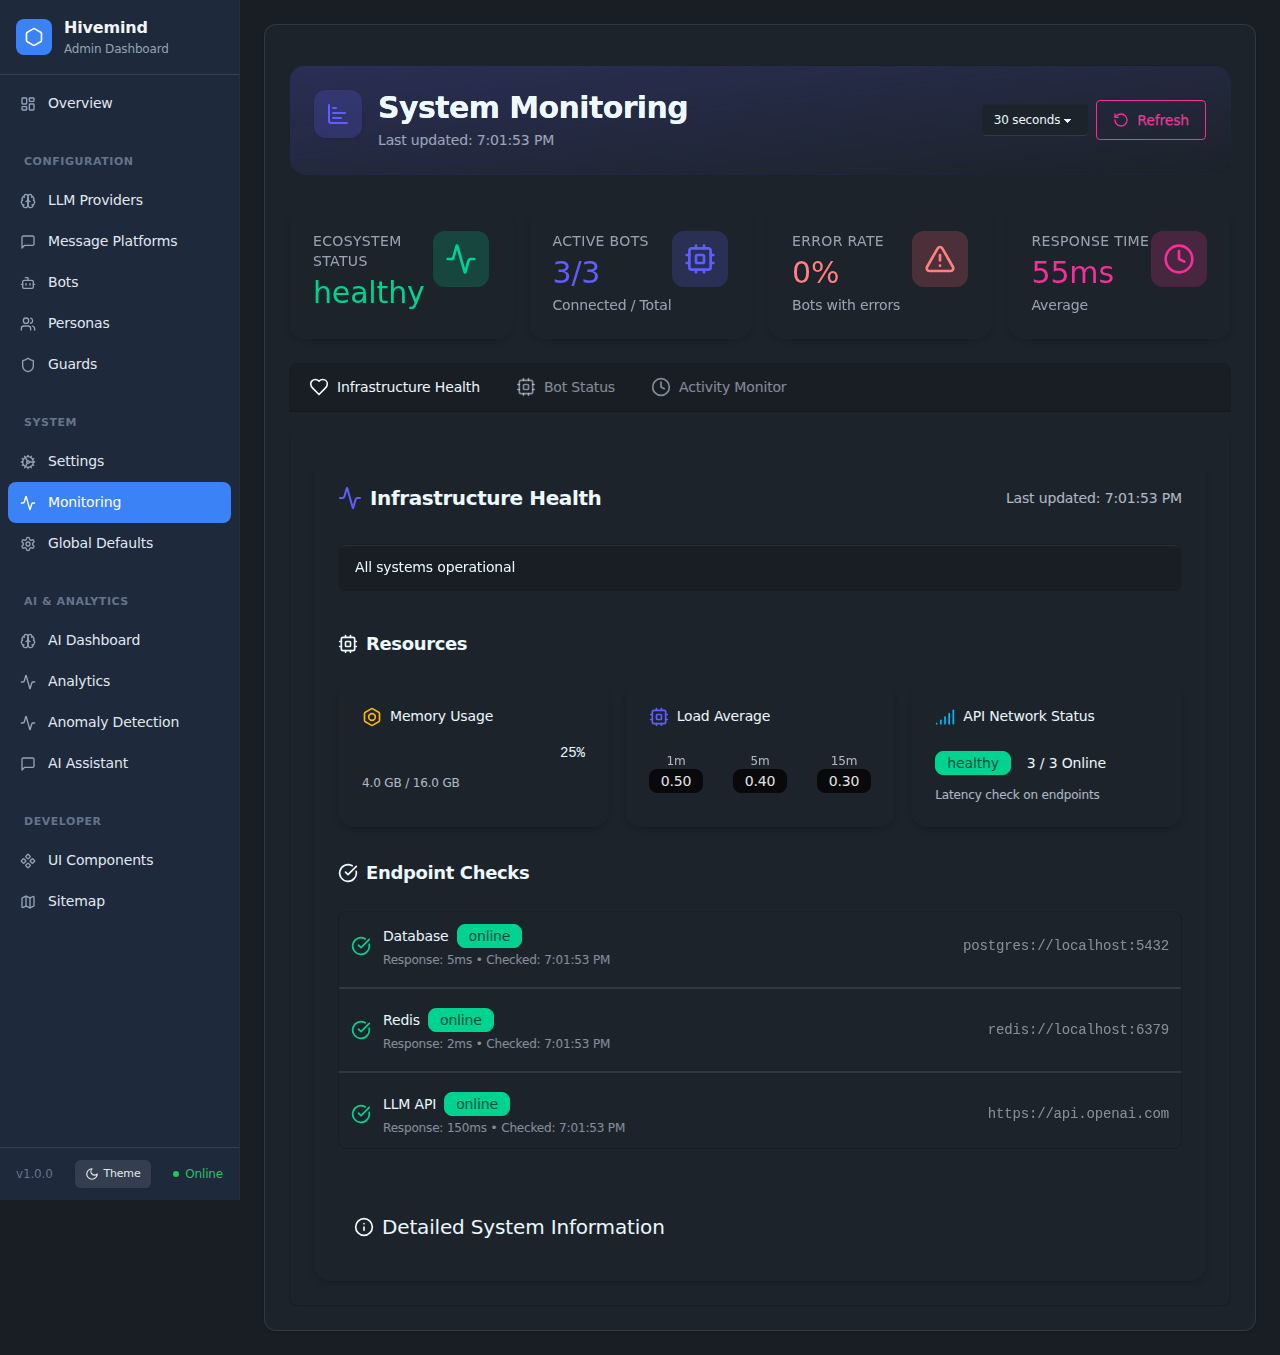
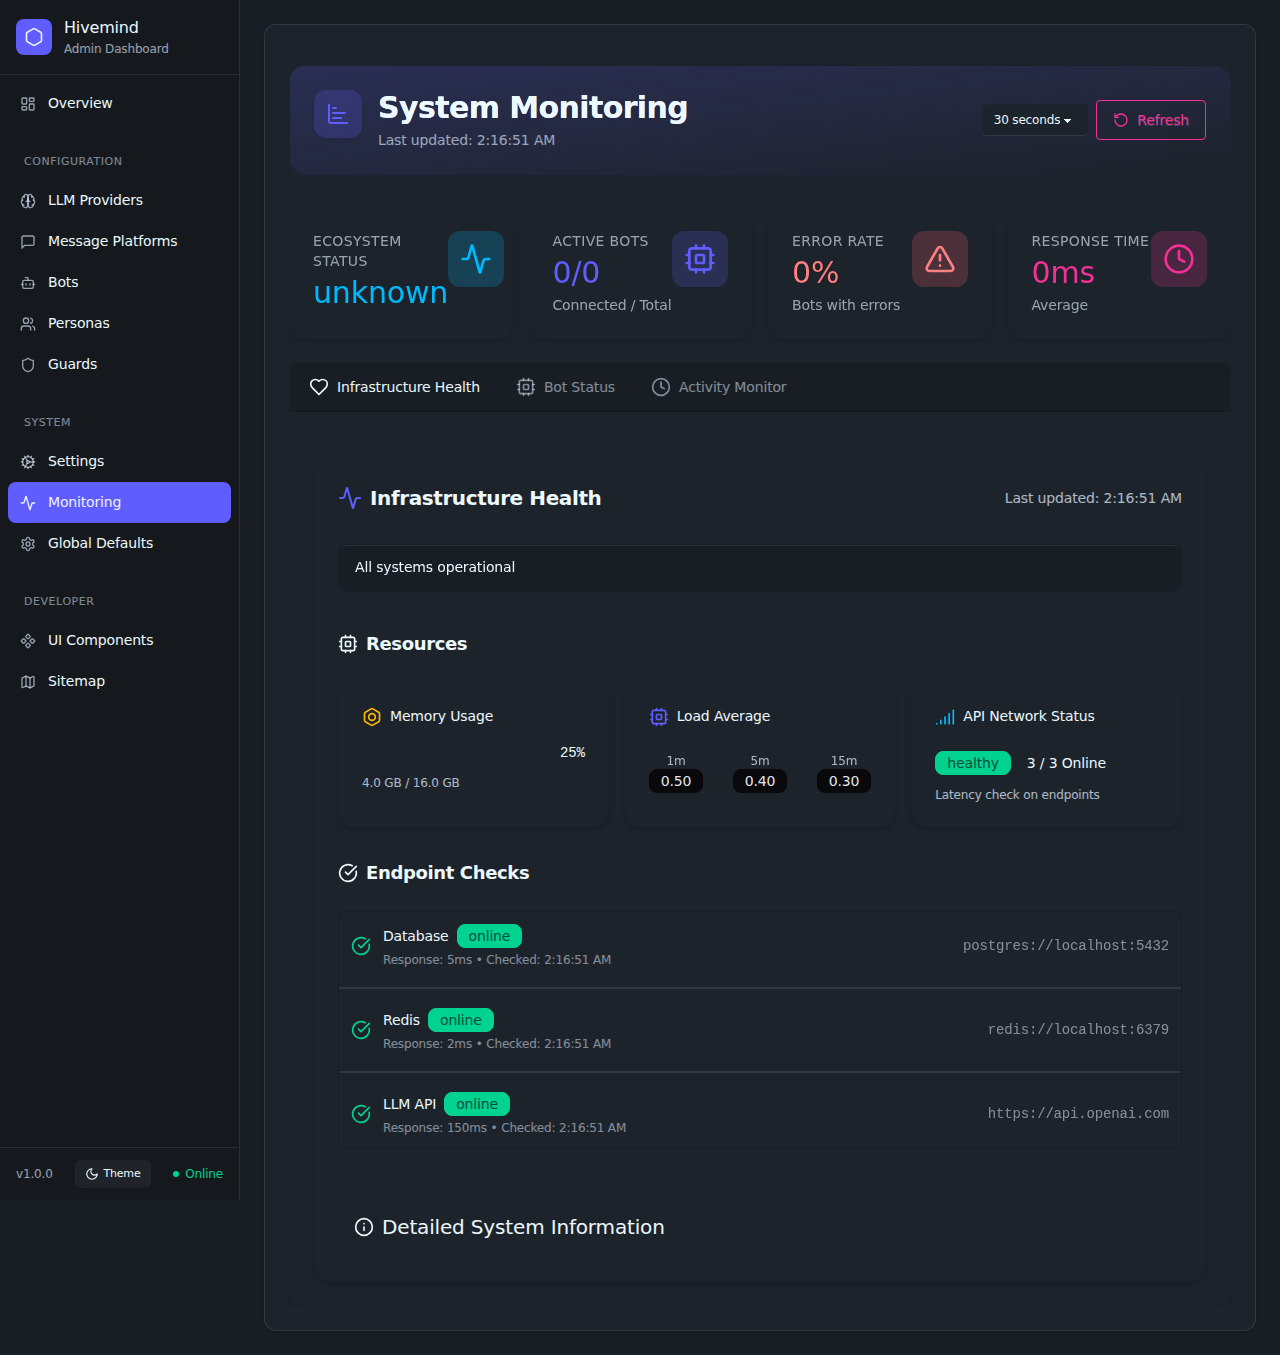
Refiner (Health Check Endpoint): Fix SystemHealth Component Crash on Sanitized Payload (#914)
* fix(ui): handle undefined metrics in SystemHealth

The `/health/detailed` endpoint returns a sanitized payload when
the user is unauthenticated, lacking `system`, `memory`, and
other full details. The frontend `SystemHealth` component previously
attempted to read deeply nested properties without optional chaining,
resulting in `TypeError: Cannot read properties of undefined` and
a React crash.

This fix properly introduces optional chaining (`?.`) and fallback
values (e.g., `?? 'Unknown'`, `|| []`) to gracefully handle
missing attributes in unauthenticated scenarios.

It also corrects a malformed endpoint reference in `api.ts`
from `/api/dashboard/api/status` to `/api/dashboard/status`.

* refactor(ui): improve error handling in SystemHealth component

Enhance error messages to provide specific guidance based on error type:
- Network errors: suggest checking connection
- Auth errors (401/403): prompt user to log in
- Server errors (5xx): indicate temporary unavailability
- Generic fallback for other errors

This improves UX by helping users understand why health data
may be unavailable and what action to take.

---------

diff --git a/src/client/src/components/SystemHealth.tsx b/src/client/src/components/SystemHealth.tsx
@@ -97,7 +97,16 @@ const SystemHealth: React.FC<SystemHealthProps> = ({
         setError(null);
       } catch (err: any) {
         console.error('Failed to fetch system health:', err);
-        setError('Failed to fetch system health data');
+        // Provide more specific error messages based on error type
+        if (err.name === 'TypeError' && err.message.includes('fetch')) {
+          setError('Network error: Unable to connect to server. Please check your connection.');
+        } else if (err.status === 401 || err.status === 403) {
+          setError('Authentication error: Please log in to view system health details.');
+        } else if (err.status >= 500) {
+          setError('Server error: Health check service is temporarily unavailable.');
+        } else {
+          setError('Failed to fetch system health data. Some metrics may be unavailable.');
+        }
       } finally {
         setLoading(false);
       }
@@ -206,19 +215,19 @@ const SystemHealth: React.FC<SystemHealthProps> = ({
             <div className="space-y-1 text-sm">
               <div className="flex justify-between border-b border-base-200 py-1">
                 <span>Platform:</span>
-                <span className="font-mono">{metrics?.system.platform}</span>
+                <span className="font-mono">{metrics?.system?.platform ?? 'Unknown'}</span>
               </div>
               <div className="flex justify-between border-b border-base-200 py-1">
                 <span>Architecture:</span>
-                <span className="font-mono">{metrics?.system.arch}</span>
+                <span className="font-mono">{metrics?.system?.arch ?? 'Unknown'}</span>
               </div>
               <div className="flex justify-between border-b border-base-200 py-1">
                 <span>Release:</span>
-                <span className="font-mono">{metrics?.system.release}</span>
+                <span className="font-mono">{metrics?.system?.release ?? 'Unknown'}</span>
               </div>
               <div className="flex justify-between border-b border-base-200 py-1">
                 <span>Hostname:</span>
-                <span className="font-mono">{metrics?.system.hostname}</span>
+                <span className="font-mono">{metrics?.system?.hostname ?? 'Unknown'}</span>
               </div>
             </div>
           </div>
@@ -281,17 +290,17 @@ const SystemHealth: React.FC<SystemHealthProps> = ({
               <div className="flex items-center gap-4">
                 <div className="flex-1">
                   <Progress
-                    value={metrics?.memory.usage || 0}
+                    value={metrics?.memory?.usage || 0}
                     max={100}
-                    variant={(metrics?.memory.usage || 0) > 90 ? 'error' : (metrics?.memory.usage || 0) > 70 ? 'warning' : 'success'}
+                    variant={(metrics?.memory?.usage || 0) > 90 ? 'error' : (metrics?.memory?.usage || 0) > 70 ? 'warning' : 'success'}
                   />
                 </div>
                 <span className="text-sm font-mono w-12 text-right">
-                  {(metrics?.memory.usage || 0).toFixed(0)}%
+                  {(metrics?.memory?.usage || 0).toFixed(0)}%
                 </span>
               </div>
               <span className="text-xs text-base-content/70 mt-1">
-                {formatBytes((metrics?.memory.used || 0) * 1024 * 1024)} / {formatBytes((metrics?.memory.total || 0) * 1024 * 1024)}
+                {formatBytes((metrics?.memory?.used || 0) * 1024 * 1024)} / {formatBytes((metrics?.memory?.total || 0) * 1024 * 1024)}
               </span>
             </div>
           </div>
@@ -304,7 +313,7 @@ const SystemHealth: React.FC<SystemHealthProps> = ({
                 <span className="font-medium">Load Average</span>
               </div>
               <div className="flex gap-2 justify-between items-center h-full">
-                {metrics?.system.loadAverage.map((load, index) => (
+                {(metrics?.system?.loadAverage || []).map((load, index) => (
                   <div key={index} className="flex flex-col items-center">
                     <span className="text-xs opacity-70">{index === 0 ? '1m' : index === 1 ? '5m' : '15m'}</span>
                     <Badge

diff --git a/src/client/src/services/api.ts b/src/client/src/services/api.ts
@@ -439,7 +439,7 @@ class ApiService {
   }
 
   async getStatus(): Promise<StatusResponse> {
-    return this.request<StatusResponse>('/api/dashboard/api/status');
+    return this.request<StatusResponse>('/api/dashboard/status');
   }
 
   async getConfigSources(): Promise<ConfigSourcesResponse> {
